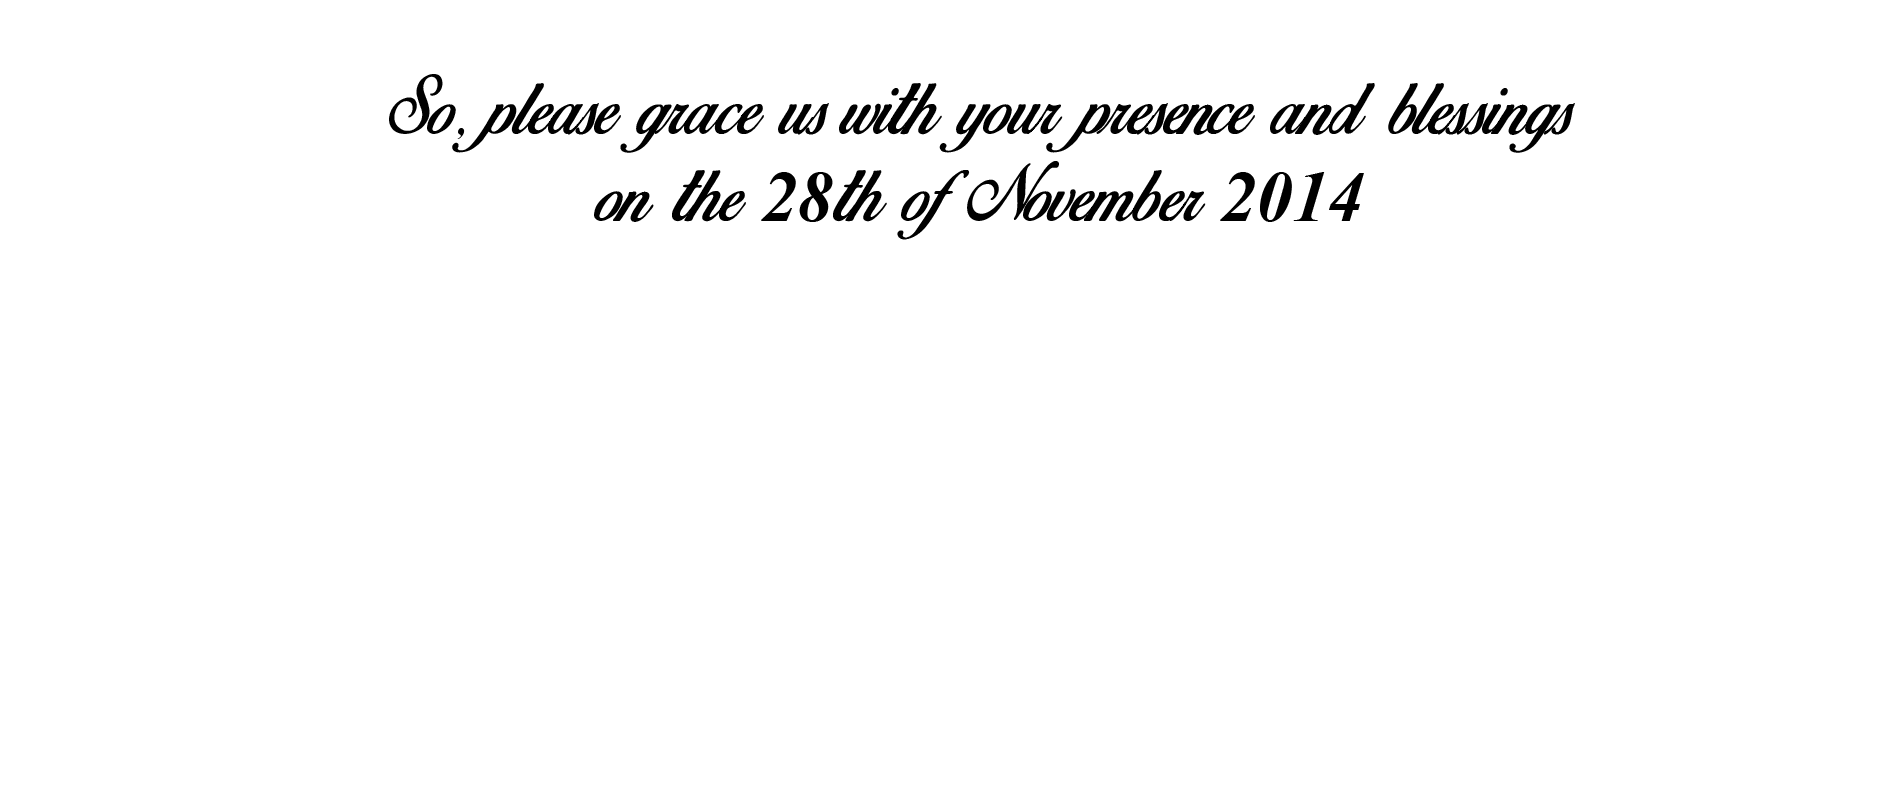
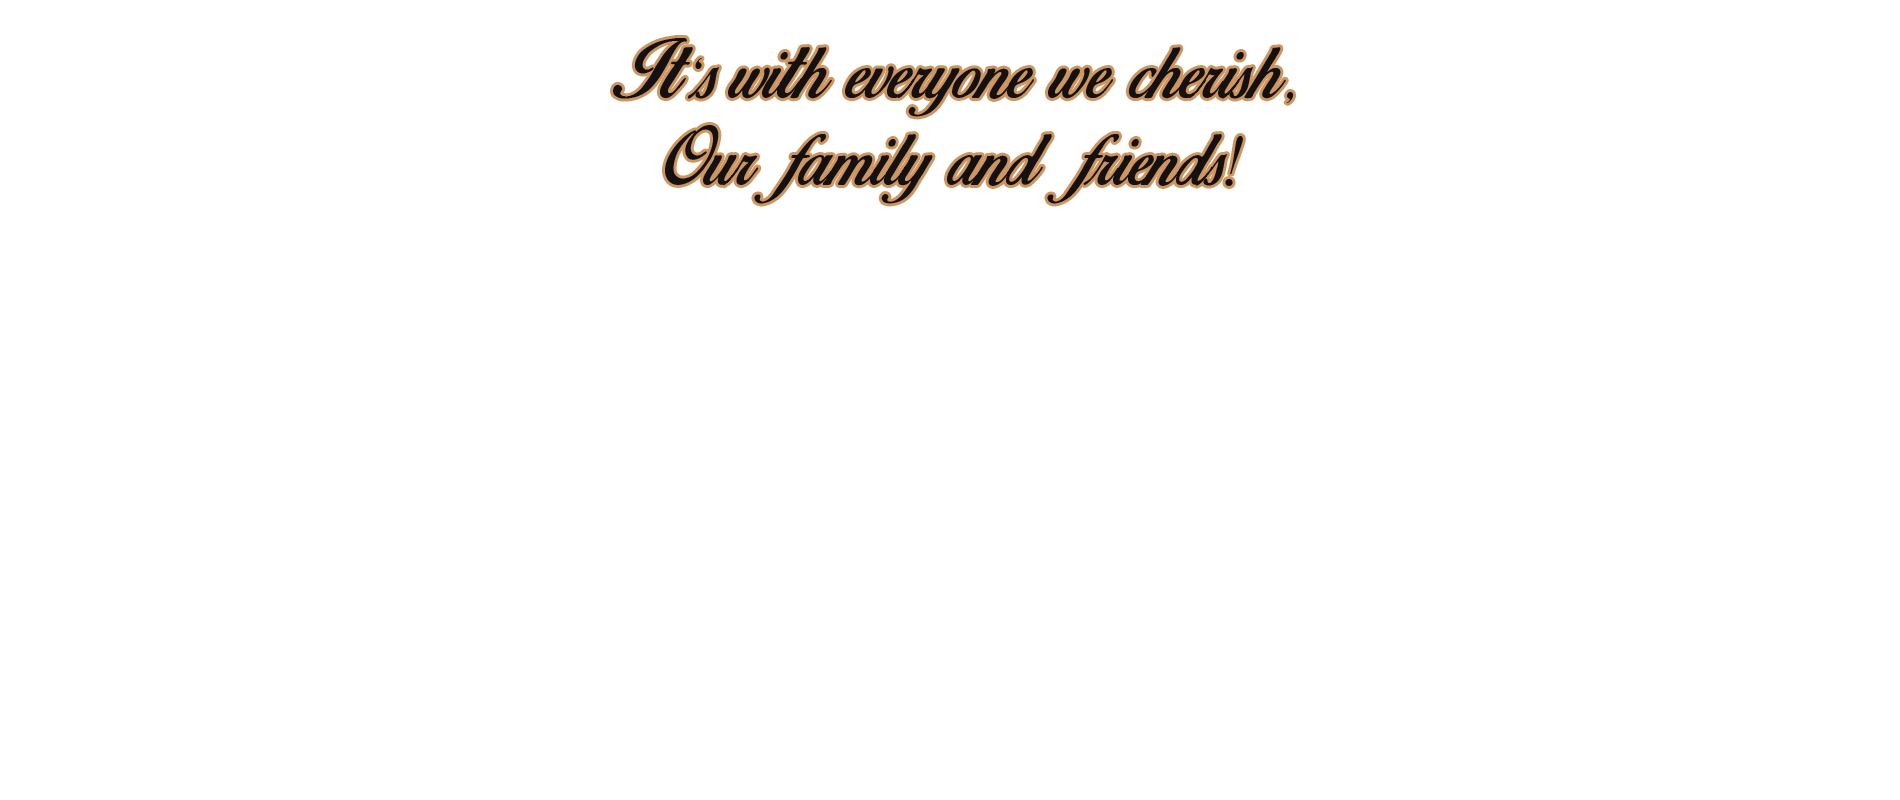
everything changed

Changed region(s): [[0.1863, 0.0312, 0.8384, 0.3125]]

diff --git a/index.html b/index.html
@@ -151,6 +151,10 @@
   
   <body class="loading">
 	<div id="preload">
+	   <img src="/images/invitebg3.jpg" width="1" height="1" alt="" />
+	   <img src="/images/invitebg.jpg" width="1" height="1" alt="" />
+	   <img src="/images/pathbg.jpg" width="1" height="1" alt="" />
+	   <img src="/images/cloudbg.jpg" width="1" height="1" alt="" />
 	   <img src="/images/beachbg.jpg" width="1" height="1" alt="" />
 	   <img src="/images/snowbg.jpg" width="1" height="1" alt="" />
 	   <img src="/images/mountainbg.jpg" width="1" height="1" alt="" />
@@ -163,9 +167,13 @@
 	   <img src="/images/astrodress.png" width="1" height="1" alt="" />
 	   <img src="/images/weddingdress.png" width="1" height="1" alt="" />
 	   <img src="/images/weddingfamilydress.png" width="1" height="1" alt="" />
+	   <img src="/images/IntroSentence0.png" width="1" height="1" alt="" />
 	   <img src="/images/IntroSentence1.png" width="1" height="1" alt="" />
 	   <img src="/images/IntroSentence2.png" width="1" height="1" alt="" />
-	   <img src="/images/weddingfamilydress.png" width="1" height="1" alt="" />
+	   <img src="/images/WeddingSentence1.png" width="1" height="1" alt="" />
+	   <img src="/images/WeddingSentence2.png" width="1" height="1" alt="" />
+	   <img src="/images/RsvpText.png" width="1" height="1" alt="" />
+	   <img src="/images/endstory.png" width="1" height="1" alt="" />
 	</div>
            
        <div id="intro">
@@ -238,7 +246,7 @@
                 data-anchor-target="#sixth">
             </div><!-- weddingdress -->
             <div id ="weddingfamilydress" class="static" 
-                data-center="opacity: 3"
+                data-center="opacity: 4"
                 data-center-top="opacity: 0;"
                 data-anchor-target="#seventh">
             </div><!-- weddingfamilydress -->
@@ -249,21 +257,22 @@
                 data-anchor-target="#seventh">
             </div><!-- weddingfamilydress -->
 			<div id ="finalinvite" class="static" 
-                data-center="opacity: 3"
+                data-center="opacity: 6"
                 data-center-top="opacity: 0;"
                 data-anchor-target="#eighth">
 				
 				<div id="responseOuter" class="static"
-                data-center="opacity: 3"
+                data-center="opacity: 9"
                 data-center-top="opacity: 0;"
                 data-anchor-target="#eighth">
-				<h2 style="top:47%"><i>Please RSVP!</i></h2>
+				<img src="images/RsvpText.png" height="15%"  style="top:42%;" />
                 <div id="divYes" class="response"> Yes </div>
                 <div id="divMaybe" class="response"> Maybe </div>
                 <div id="divNo" class="response"> No </div>
             </div><!-- responseOuter -->
          
             </div><!-- finalinvite -->
+			
           </div><!-- static -->
 		<div id="zeroth" class="storyelement"></div>
 		  <div id="first" class="storyelement"></div>

diff --git a/stylesheets/parallax.css b/stylesheets/parallax.css
@@ -40,13 +40,13 @@ html, body{
 #responseOuter {
   
 position: relative;
-height: 25%;
+height: 29%;
 margin: 0 auto;
 padding: 0;
 width: 30%;
 overflow: hidden;
 padding: 1%;
-top: 50%;
+top: 48%;
 left: 40%;
 z-index: 700;
 }
@@ -63,7 +63,7 @@ z-index: 700;
 .response {
 
 width: 30%;
-height: 23%;
+height: 18%;
 margin-top: 3%;
 padding-top: 0;
 margin-right: 1%;
@@ -103,17 +103,20 @@ box-shadow: inset 5px 5px #D3CBC3;
   position: fixed;
   top: 0px;
   height: 1%;
-  padding: 2%;
+  padding-bottom: 2%;
+  padding-left: 2%;
+  padding-top: 1%;
   width: 100vw;
-  background: #3385FF;
+  background: #000000;
   -webkit-box-shadow: 0px 10px 5px 0px rgba(0,0,0,0.5);
   -moz-box-shadow: 0px 10px 5px 0px rgba(0,0,0,0.5);
   box-shadow: 0px 10px 5px 0px rgba(0,0,0,0.5);
   z-index: 500;
   align:center;
   vertical-align: middle;
-  font-size: x-large;
+  font-size: large;
   color: white;
+  opacity: 0.5;
 }
 
 #intro a {
@@ -147,19 +150,19 @@ box-shadow: inset 5px 5px #D3CBC3;
 	z-index: 200;
 }
 #invitationtext0{
-	background: url(/images/introSentence0.png) 50% 0 no-repeat fixed;
+	background: url(/images/IntroSentence0.png) 50% 0 no-repeat fixed;
 	background-size: 100%;
 	background-position: center bottom;
 	z-index: 300;
 }
 #invitationtext1{
-	background: url(/images/introSentence1.png) 50% 0 no-repeat fixed;
+	background: url(/images/IntroSentence1.png) 50% 0 no-repeat fixed;
 	background-size: 100%;
 	background-position: center bottom;
 	z-index: 300;
 }
 #invitationtext2{
-	background: url(/images/introSentence2.png) 50% 0 no-repeat fixed;
+	background: url(/images/IntroSentence2.png) 50% 0 no-repeat fixed;
 	background-size: 100%;
 	background-position: center bottom;
 	z-index: 300;
@@ -231,6 +234,7 @@ box-shadow: inset 5px 5px #D3CBC3;
 	background-position: center bottom;
 	z-index: 300;
 }
+
 .storyelement {
 	color: white;
 	height: 100vh;
@@ -245,8 +249,9 @@ box-shadow: inset 5px 5px #D3CBC3;
 	background: url(/images/pathbg.jpg) 50% 0 no-repeat fixed;
 	background-size: 100% 100%;
 }
+
 #firstandahalf{
-	background: url(/images/invitebg.jpg) 50% 0 no-repeat fixed;
+	background: url(/images/cloudbg.jpg) 50% 0 no-repeat fixed;
 	background-size: 100% 100%;
 }
 
